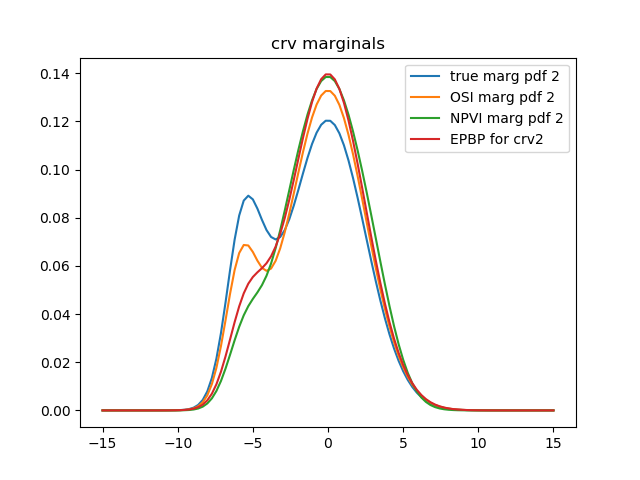
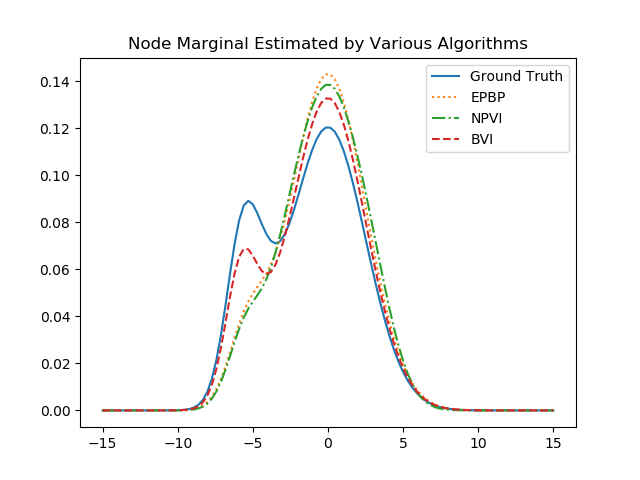
rerun hybrid_mln_experiment_plot.py to get paper style plot

diff --git a/osi/hybrid_mln_experiment_plot.py b/osi/hybrid_mln_experiment_plot.py
@@ -295,26 +295,37 @@ import matplotlib.pyplot as plt
 plt.figure()
 xs = np.linspace(domain_real.values[0], domain_real.values[1], 100)
 tests = list(range(len(Vc)))
+linestyles = ['-', ':', '-.', '--']
 for test_crv_idx in tests[-1:]:
+    l = 0
     if baseline == 'exact':
         test_crv_marg_params = get_crv_marg(*bn, test_crv_idx)
         plt.plot(xs, np.exp(utils.get_scalar_gm_log_prob(xs, w=test_crv_marg_params[0], mu=test_crv_marg_params[1],
                                                          var=test_crv_marg_params[2])),
-                 label=f'true marg pdf {test_crv_idx}')
+                 label=f'Ground Truth', linestyle=linestyles[l])
 
     if baseline == 'gibbs':
-        plt.hist(hgsampler.cont_samples[:, test_crv_idx], normed=True, label='samples')
+        plt.hist(hgsampler.cont_samples[:, test_crv_idx], normed=True, label='samples', linestyle=linestyles[l])
+    l += 1
+
+    plt.plot(xs, np.exp([epbp_marg_logpdf(x) for x in xs]), label=f'EPBP',
+             linestyle=linestyles[l])
+    l += 1
+
+    params = npvi.params['w'], npvi.params['Mu'][test_crv_idx], npvi.params['Var'][test_crv_idx]
+    plt.plot(xs, np.exp(utils.get_scalar_gm_log_prob(xs, w=params[0], mu=params[1], var=params[2])),
+             label=f'NPVI', linestyle=linestyles[l])
+    l += 1
 
     osi_test_crv_marg_params = osi.params['w'], osi.params['Mu'][test_crv_idx], osi.params['Var'][test_crv_idx]
     params = osi.params['w'], osi.params['Mu'][test_crv_idx], osi.params['Var'][test_crv_idx]
-    plt.plot(xs, np.exp(utils.get_scalar_gm_log_prob(xs, w=params[0], mu=params[1],
-                                                     var=params[2])), label=f'OSI marg pdf {test_crv_idx}')
-    params = npvi.params['w'], npvi.params['Mu'][test_crv_idx], npvi.params['Var'][test_crv_idx]
-    plt.plot(xs, np.exp(utils.get_scalar_gm_log_prob(xs, w=params[0], mu=params[1],
-                                                     var=params[2])), label=f'NPVI marg pdf {test_crv_idx}')
-    plt.plot(xs, np.exp([epbp_marg_logpdf(x) for x in xs]), label=f'EPBP for crv{test_crv_idx}')
+    plt.plot(xs, np.exp(utils.get_scalar_gm_log_prob(xs, w=params[0], mu=params[1], var=params[2])),
+             label=f'BVI', linestyle=linestyles[l])
+    l += 1
+
 plt.legend(loc='best')
-plt.title('crv marginals')
+plt.title('Node Marginal Estimated by Various Algorithms')
+
 # plt.show()
 save_name = __file__.split('.py')[0]
 plt.savefig('%s.png' % save_name)
